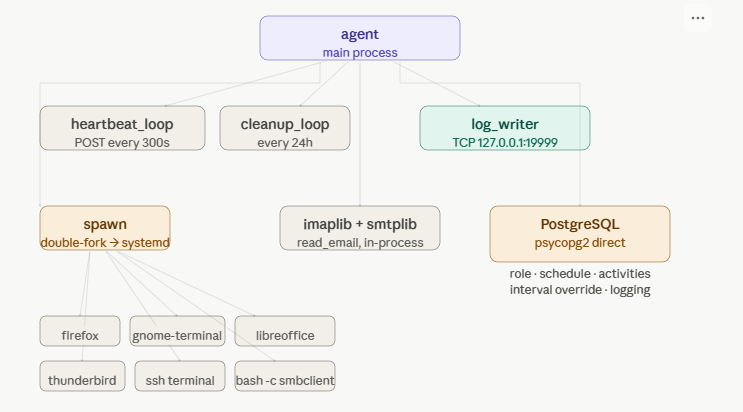
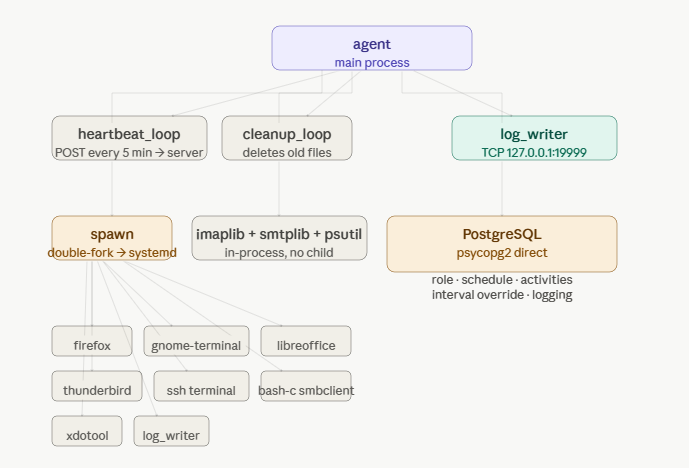
Updated Images - Linux Agent Documentation

diff --git a/documentation/README.md b/documentation/README.md
@@ -50,7 +50,7 @@ The diagram below shows how spawn uses the double-fork technique to re-parent al
 
 The diagram below shows all components and how agent connects to them — threads, spawn, in-process libraries, database, and the SMB fix routing through spawn.
 
-![LISA Linux Agent Architecture](assets/architecture.png)
+![LISA Linux Agent Architecture](assets/linux-agent.png)
 
 **Key design principle:** The agent never appears as the parent of any process it launches. All child processes are launched through `spawn` which uses double-fork to re-parent them to systemd.
 